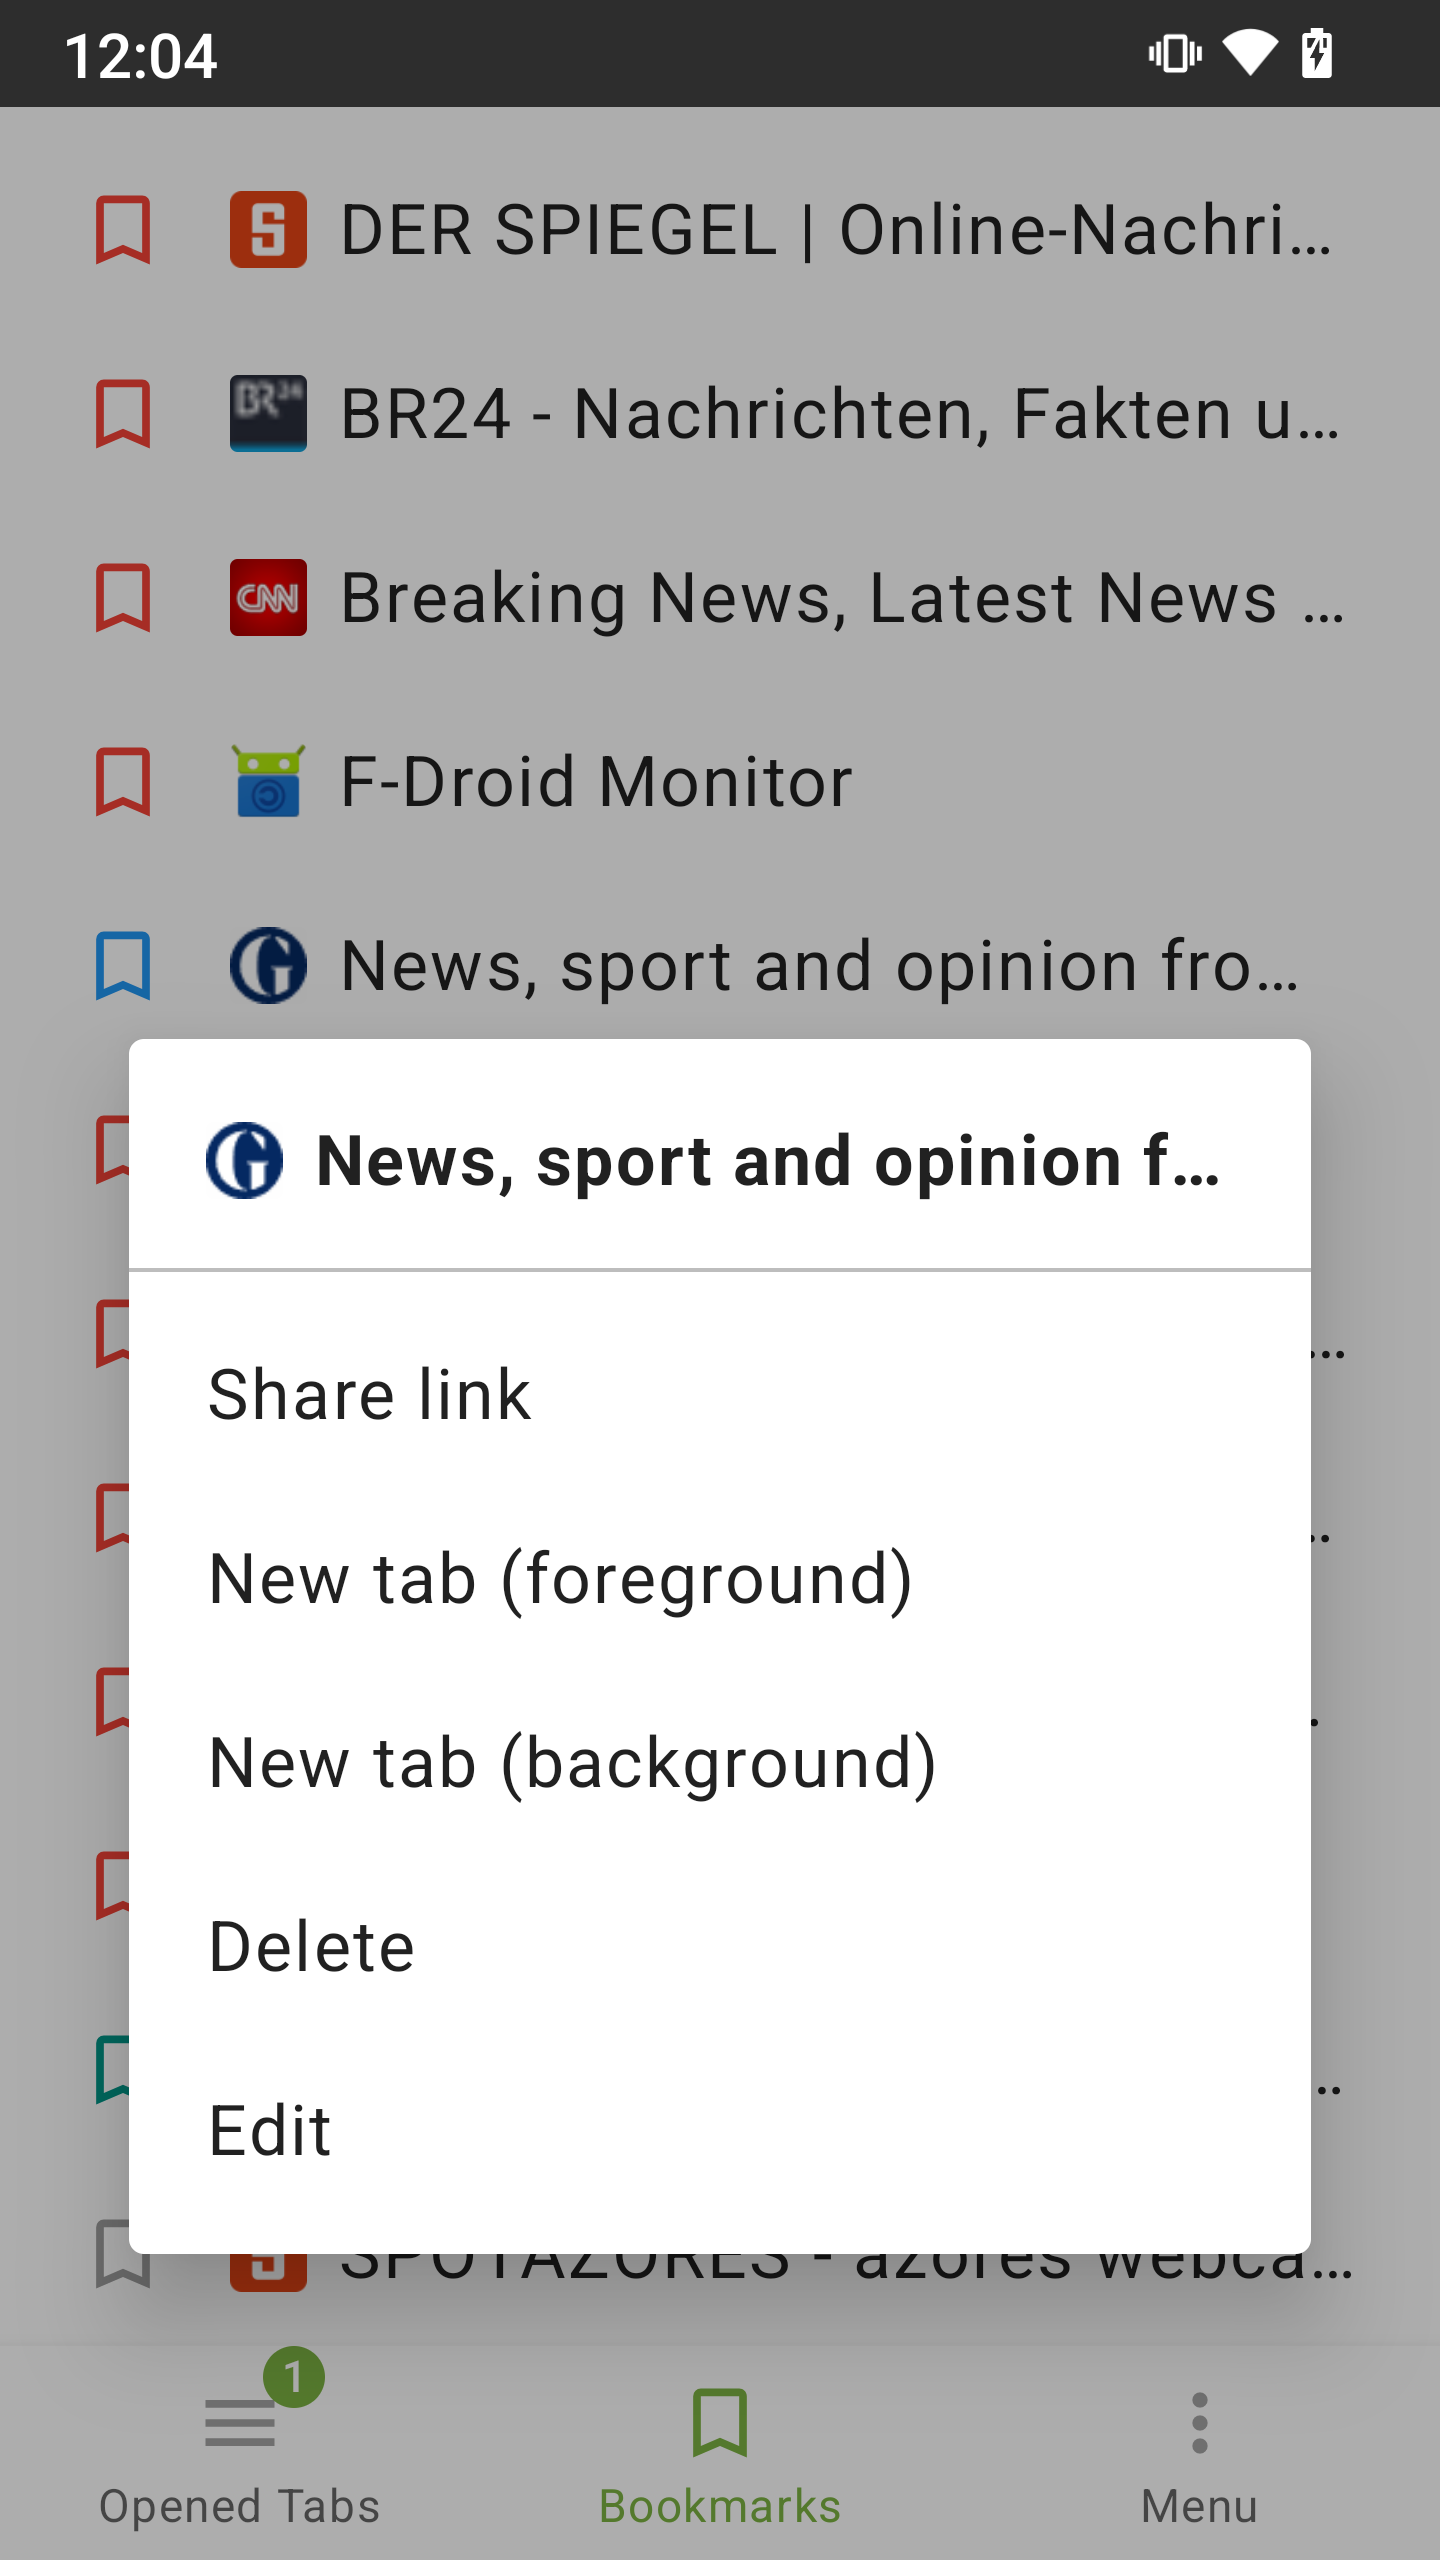
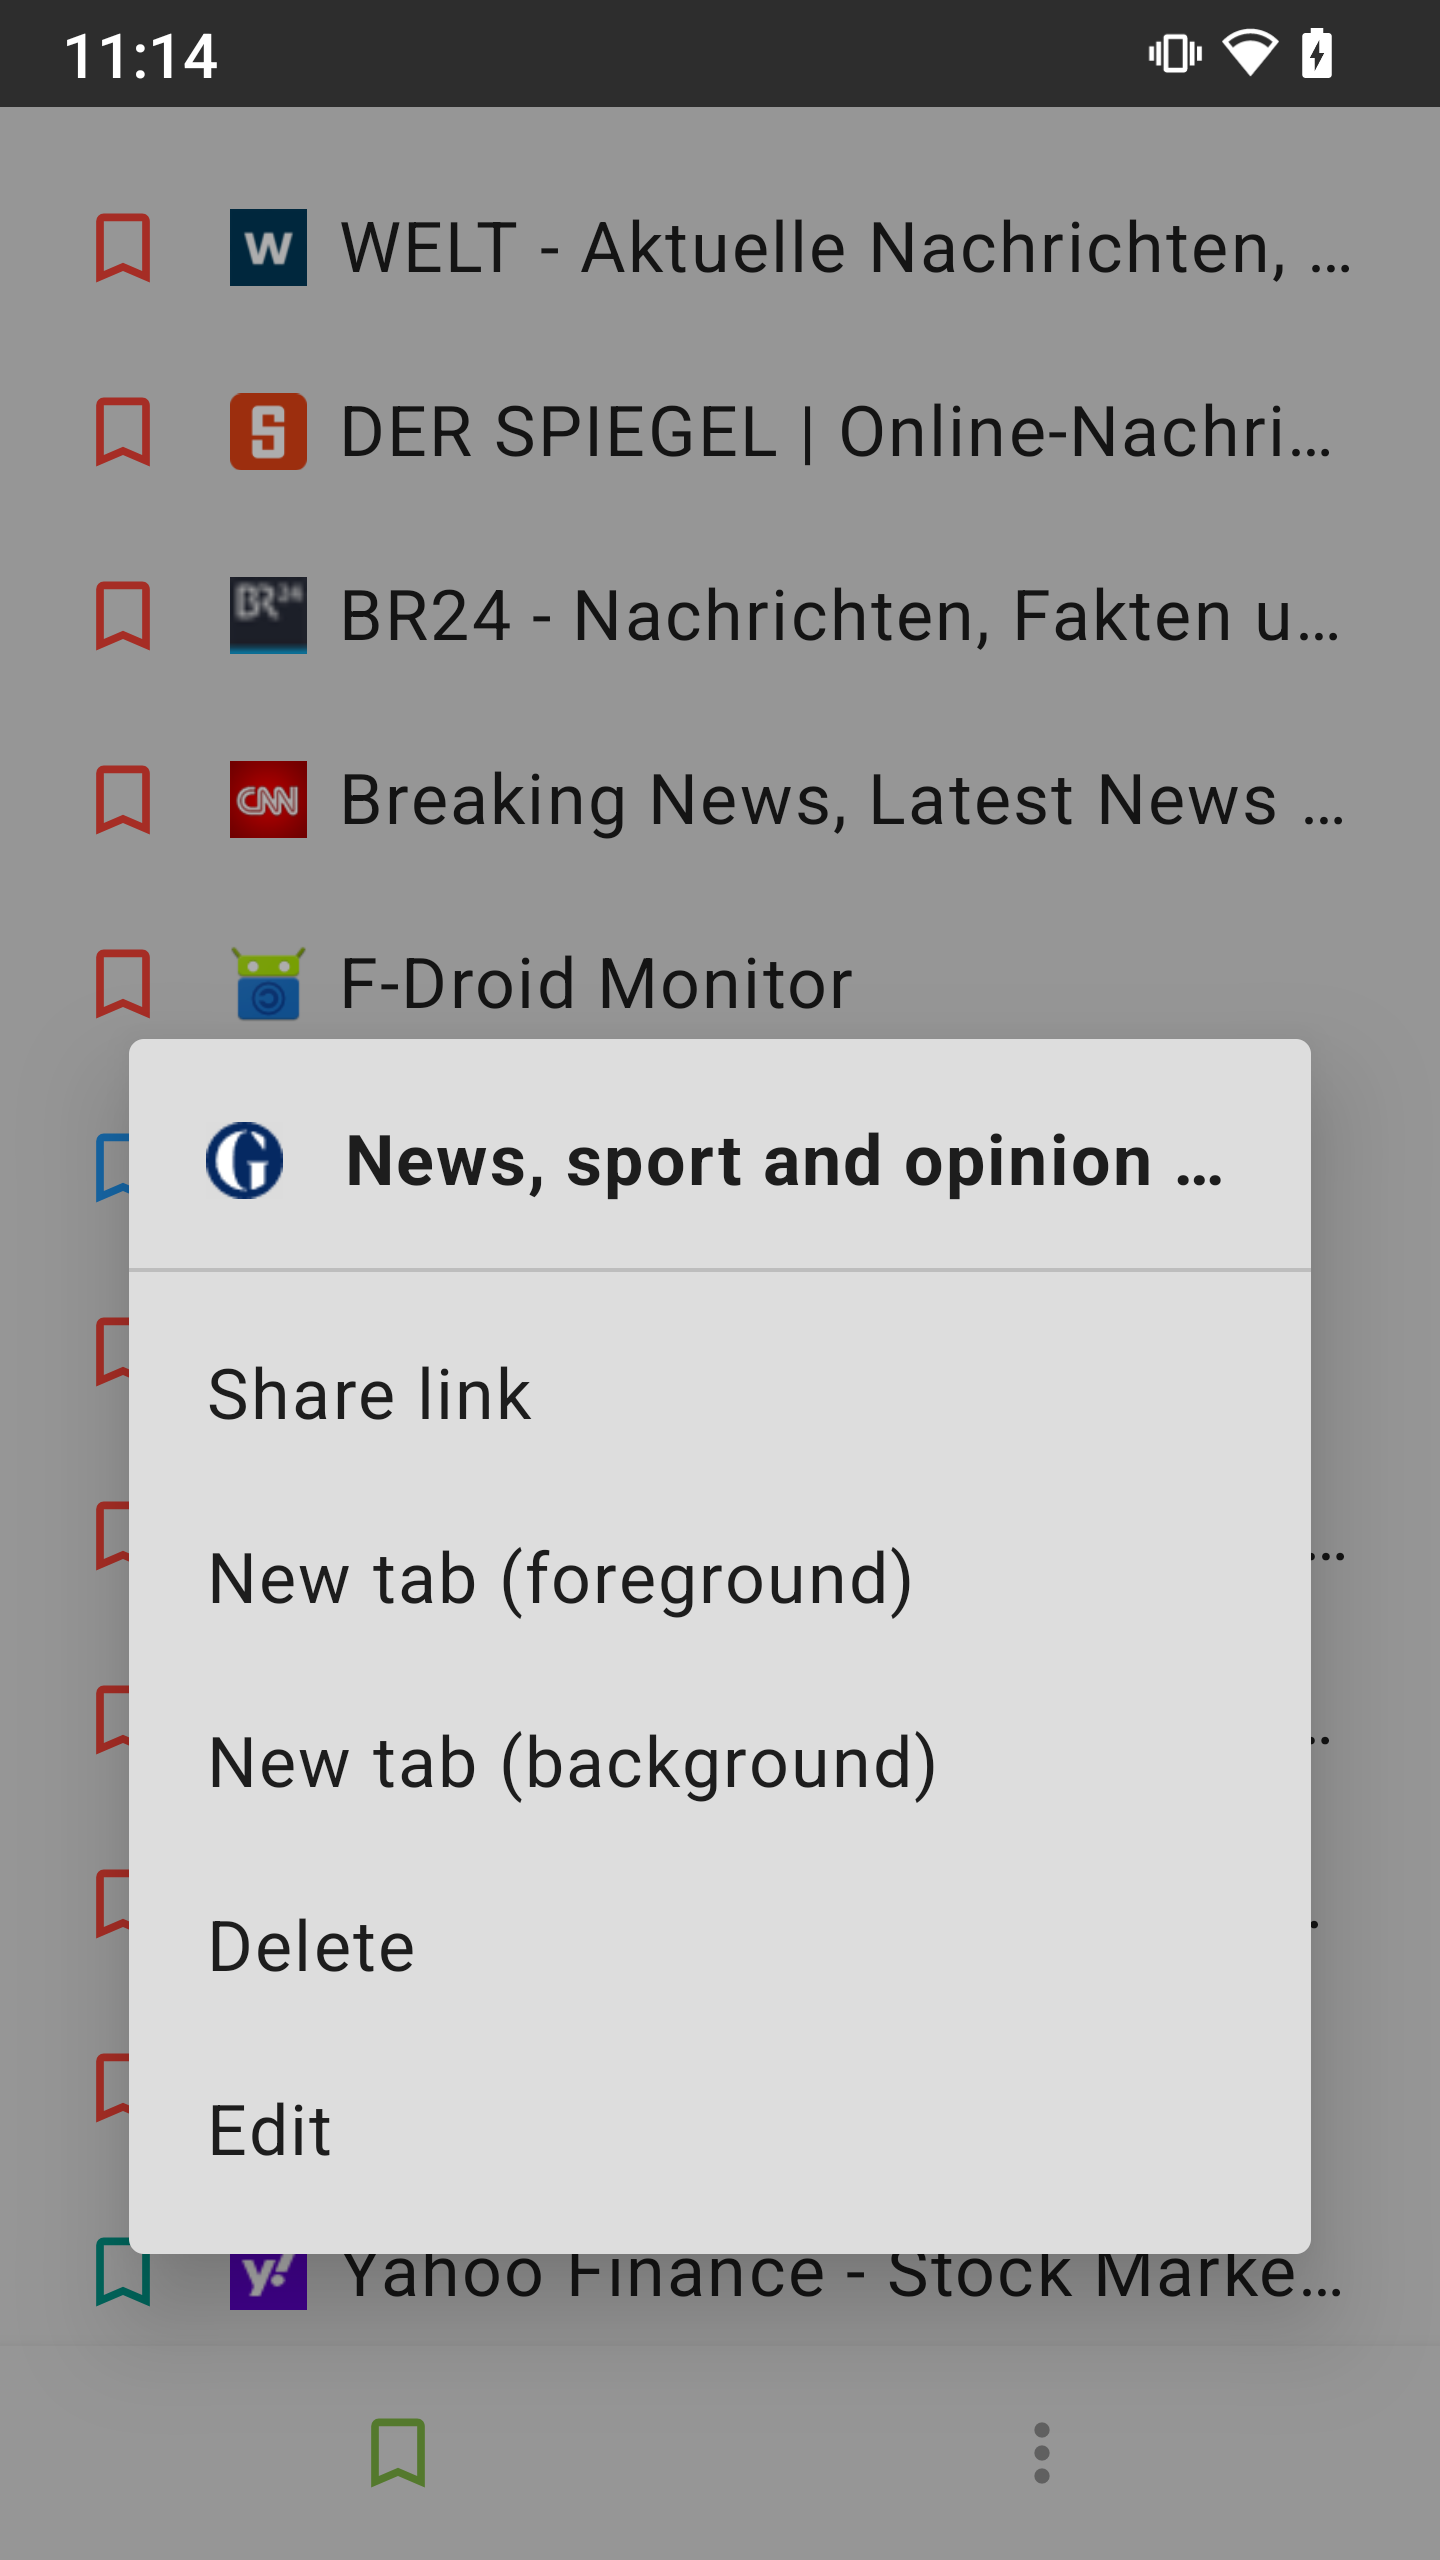
remove TABs from bookmarks navigation remove text labels from bottomNavigation add printing support via JavaScript refactor print() to HelperUnit update fastlane images update Readme

diff --git a/app/src/main/java/de/baumann/browser/activity/BrowserActivity.java b/app/src/main/java/de/baumann/browser/activity/BrowserActivity.java
@@ -3,7 +3,6 @@ package de.baumann.browser.activity;
 import android.animation.ObjectAnimator;
 import android.annotation.SuppressLint;
 import android.app.Activity;
-import android.app.Dialog;
 import android.app.DownloadManager;
 
 import android.app.SearchManager;
@@ -30,9 +29,6 @@ import androidx.preference.PreferenceManager;
 import android.os.Handler;
 import android.os.HandlerThread;
 import android.os.Message;
-import android.print.PrintAttributes;
-import android.print.PrintDocumentAdapter;
-import android.print.PrintManager;
 import androidx.annotation.NonNull;
 
 import com.google.android.material.badge.BadgeDrawable;
@@ -481,13 +477,6 @@ public class BrowserActivity extends AppCompatActivity implements BrowserControl
         dialog_tabPreview.show();
     }
 
-    private void print() {
-        String title = HelperUnit.guessFileName(ninjaWebView.getUrl(), null, null);
-        PrintManager printManager = (PrintManager) getSystemService(Context.PRINT_SERVICE);
-        PrintDocumentAdapter printAdapter = ninjaWebView.createPrintDocumentAdapter(title);
-        Objects.requireNonNull(printManager).print(title, printAdapter, new PrintAttributes.Builder().build());
-    }
-
     private void dispatchIntent(Intent intent) {
         String action = intent.getAction();
         String url = intent.getStringExtra(Intent.EXTRA_TEXT);
@@ -718,10 +707,7 @@ public class BrowserActivity extends AppCompatActivity implements BrowserControl
         bottomSheetDialog_OverView.setContentView(dialogView);
 
         BottomNavigationView.OnNavigationItemSelectedListener navListener = menuItem -> {
-            if (menuItem.getItemId() == R.id.tabs) {
-                hideOverview();
-                showTabView();
-            } else if (menuItem.getItemId() == R.id.bookmarks) {
+            if (menuItem.getItemId() == R.id.bookmarks) {
                 omniBox_overview.setImageResource(R.drawable.icon_bookmark_light);
 
                 RecordAction action = new RecordAction(context);
@@ -796,11 +782,9 @@ public class BrowserActivity extends AppCompatActivity implements BrowserControl
             show_dialogFilter();
             return true;
         });
-        bottom_navigation.findViewById(R.id.tabs).setOnLongClickListener(v -> true);
+
         bottom_navigation.findViewById(R.id.menu).setOnLongClickListener(v -> true);
 
-        bottom_navigation.getOrCreateBadge(R.id.tabs).setNumber(BrowserContainer.size());
-        bottom_navigation.getOrCreateBadge(R.id.tabs).setBackgroundColor(getResources().getColor(R.color.primaryColor));
         bottom_navigation.setSelectedItemId(R.id.bookmarks);
 
         BottomSheetBehavior<View> mBehavior = BottomSheetBehavior.from((View) dialogView.getParent());
@@ -1229,7 +1213,6 @@ public class BrowserActivity extends AppCompatActivity implements BrowserControl
     @OptIn(markerClass=com.google.android.material.badge.ExperimentalBadgeUtils.class)
     private void updateOmniBox() {
 
-        bottom_navigation.getOrCreateBadge(R.id.tabs).setNumber(BrowserContainer.size());
         badgeDrawable.setNumber(BrowserContainer.size());
         BadgeUtils.attachBadgeDrawable(badgeDrawable, omniBox_tab, findViewById(R.id.layout));
         omniBox_text.clearFocus();
@@ -1542,7 +1525,7 @@ public class BrowserActivity extends AppCompatActivity implements BrowserControl
 
         ImageButton overflow_print = dialogView.findViewById(R.id.overflow_print);
         overflow_print.setOnClickListener(v -> {
-            print();
+            HelperUnit.print(this, ninjaWebView);
             dialog_overflow.cancel();
         });
 

diff --git a/app/src/main/java/de/baumann/browser/unit/HelperUnit.java b/app/src/main/java/de/baumann/browser/unit/HelperUnit.java
@@ -41,6 +41,9 @@ import com.google.android.material.dialog.MaterialAlertDialogBuilder;
 
 import android.os.Environment;
 import android.os.Handler;
+import android.print.PrintAttributes;
+import android.print.PrintDocumentAdapter;
+import android.print.PrintManager;
 import android.view.Gravity;
 import android.view.View;
 import android.view.inputmethod.InputMethodManager;
@@ -60,6 +63,7 @@ import de.baumann.browser.browser.DataURIParser;
 import de.baumann.browser.browser.FilenameExtractor;
 import de.baumann.browser.view.GridItem;
 import de.baumann.browser.view.NinjaToast;
+import de.baumann.browser.view.NinjaWebView;
 
 import static android.content.Context.DOWNLOAD_SERVICE;
 
@@ -384,6 +388,15 @@ public class HelperUnit {
             Dialog dialog = builder.create();
             dialog.show();
             Objects.requireNonNull(dialog.getWindow()).setGravity(Gravity.BOTTOM);
+        });
+    }
+
+    public static void print(Context context, NinjaWebView ninjaWebView) {
+        ((Activity) context).runOnUiThread(() -> {
+            String title = HelperUnit.guessFileName(ninjaWebView.getUrl(), null, null);
+            PrintManager printManager = (PrintManager) context.getSystemService(Context.PRINT_SERVICE);
+            PrintDocumentAdapter printAdapter = ninjaWebView.createPrintDocumentAdapter(title);
+            Objects.requireNonNull(printManager).print(title, printAdapter, new PrintAttributes.Builder().build());
         });
     }
 }

diff --git a/app/src/main/java/de/baumann/browser/browser/JavaScriptInterface.java b/app/src/main/java/de/baumann/browser/browser/JavaScriptInterface.java
@@ -12,11 +12,16 @@ import java.io.FileOutputStream;
 import java.io.IOException;
 
 import de.baumann.browser.unit.HelperUnit;
+import de.baumann.browser.view.NinjaWebView;
 
 public class JavaScriptInterface {
+
     private final Context context;
-    public JavaScriptInterface(Context context) {
+    private final NinjaWebView ninjaWebView;
+
+    public JavaScriptInterface(Context context, NinjaWebView ninjaWebView) {
         this.context = context;
+        this.ninjaWebView = ninjaWebView;
     }
 
     @JavascriptInterface
@@ -33,6 +38,17 @@ public class JavaScriptInterface {
     @JavascriptInterface
     public void errorHandler(String error){
         Toast.makeText(context,error,Toast.LENGTH_SHORT).show();
+    }
+
+    @JavascriptInterface
+    public void print(){
+        HelperUnit.print(context, ninjaWebView);
+    }
+
+    public static String injectPrintSupport(){
+        return  "window.print = function(){" +
+                "   NinjaWebViewJS.print();" +
+                "};";
     }
 
     public static String getBase64StringFromBlobUrl(String blobUrl, String filename, String mimeType) {

diff --git a/app/src/main/java/de/baumann/browser/view/NinjaWebView.java b/app/src/main/java/de/baumann/browser/view/NinjaWebView.java
@@ -115,7 +115,7 @@ public class NinjaWebView extends WebView implements AlbumController {
     }
 
     public NinjaWebView(Context context) {
-        super(context); // Cannot create a dialog, the WebView context is not an activity
+        super(context);
         this.context = context;
         this.foreground = false;
         this.desktopMode=false;
@@ -157,7 +157,7 @@ public class NinjaWebView extends WebView implements AlbumController {
             WebSettingsCompat.setAlgorithmicDarkeningAllowed(webSettings, sp.getBoolean("sp_algo_dark",true));
         }
 
-        addJavascriptInterface(new JavaScriptInterface(context), "NinjaWebViewJS");
+        addJavascriptInterface(new JavaScriptInterface(context, this), "NinjaWebViewJS");
         String userAgent = getUserAgent(desktopMode);
         webSettings.setSafeBrowsingEnabled(true);
 

diff --git a/app/src/main/java/de/baumann/browser/browser/NinjaWebViewClient.java b/app/src/main/java/de/baumann/browser/browser/NinjaWebViewClient.java
@@ -17,7 +17,6 @@ import androidx.preference.PreferenceManager;
 import androidx.annotation.NonNull;
 
 import com.google.android.material.dialog.MaterialAlertDialogBuilder;
-import com.google.android.material.textfield.TextInputLayout;
 
 import android.view.Gravity;
 import android.view.View;
@@ -85,6 +84,8 @@ public class NinjaWebViewClient extends WebViewClient {
 
         view.evaluateJavascript("var links=document.getElementsByTagName('video'); for(let i=0;i<links.length;i++){links[i].pause()};", null);
 
+        //inject printing support via JavaScriptInterface
+        view.evaluateJavascript(JavaScriptInterface.injectPrintSupport(), null);
     }
 
     @Override

diff --git a/README.md b/README.md
@@ -114,7 +114,7 @@ Data will be stored in Documents/browser_backup.
 # OTHER APPS
 
 | **RadarWeather** | **Gas Prices** | **Smart Eggtimer** | 
-|:---:|:---:|:---:|
+|:---:|:---:|:--:|
 | [<img src="https://github.com/woheller69/weather/blob/main/fastlane/metadata/android/en-US/images/icon.png" width="50">](https://f-droid.org/packages/org.woheller69.weather/)| [<img src="https://github.com/woheller69/spritpreise/blob/main/fastlane/metadata/android/en-US/images/icon.png" width="50">](https://f-droid.org/packages/org.woheller69.spritpreise/) | [<img src="https://github.com/woheller69/eggtimer/blob/main/fastlane/metadata/android/en-US/images/icon.png" width="50">](https://f-droid.org/packages/org.woheller69.eggtimer/) |
 | **Bubble** | **hEARtest** | **GPS Cockpit** |
 | [<img src="https://github.com/woheller69/Level/blob/master/fastlane/metadata/android/en-US/images/icon.png" width="50">](https://f-droid.org/packages/org.woheller69.level/) | [<img src="https://github.com/woheller69/audiometry/blob/new/fastlane/metadata/android/en-US/images/icon.png" width="50">](https://f-droid.org/packages/org.woheller69.audiometry/) | [<img src="https://github.com/woheller69/gpscockpit/blob/master/fastlane/metadata/android/en-US/images/icon.png" width="50">](https://f-droid.org/packages/org.woheller69.gpscockpit/) |
@@ -124,3 +124,5 @@ Data will be stored in Documents/browser_backup.
 | [<img src="https://github.com/woheller69/arity/blob/master/fastlane/metadata/android/en-US/images/icon.png" width="50">](https://f-droid.org/packages/org.woheller69.arity/) | [<img src="https://github.com/woheller69/omweather/blob/master/fastlane/metadata/android/en-US/images/icon.png" width="50">](https://f-droid.org/packages/org.woheller69.omweather/) | [<img src="https://github.com/woheller69/solXpect/blob/main/fastlane/metadata/android/en-US/images/icon.png" width="50">](https://f-droid.org/packages/org.woheller69.solxpect/) |
 | **gptAssist** | **dumpSeeker** | **huggingAssist** |
 | [<img src="https://github.com/woheller69/gptassist/blob/master/fastlane/metadata/android/en-US/images/icon.png" width="50">](https://f-droid.org/packages/org.woheller69.gptassist/) | [<img src="https://github.com/woheller69/dumpseeker/blob/main/fastlane/metadata/android/en-US/images/icon.png" width="50">](https://f-droid.org/packages/org.woheller69.dumpseeker/) | [<img src="https://github.com/woheller69/huggingassist/blob/master/fastlane/metadata/android/en-US/images/icon.png" width="50">](https://f-droid.org/packages/org.woheller69.hugassist/) |
+| **FREE Browser** | | |
+| [<img src="https://github.com/woheller69/browser/blob/newmaster/fastlane/metadata/android/en-US/images/icon.png" width="50">](https://f-droid.org/packages/org.woheller69.browser/) | | |
